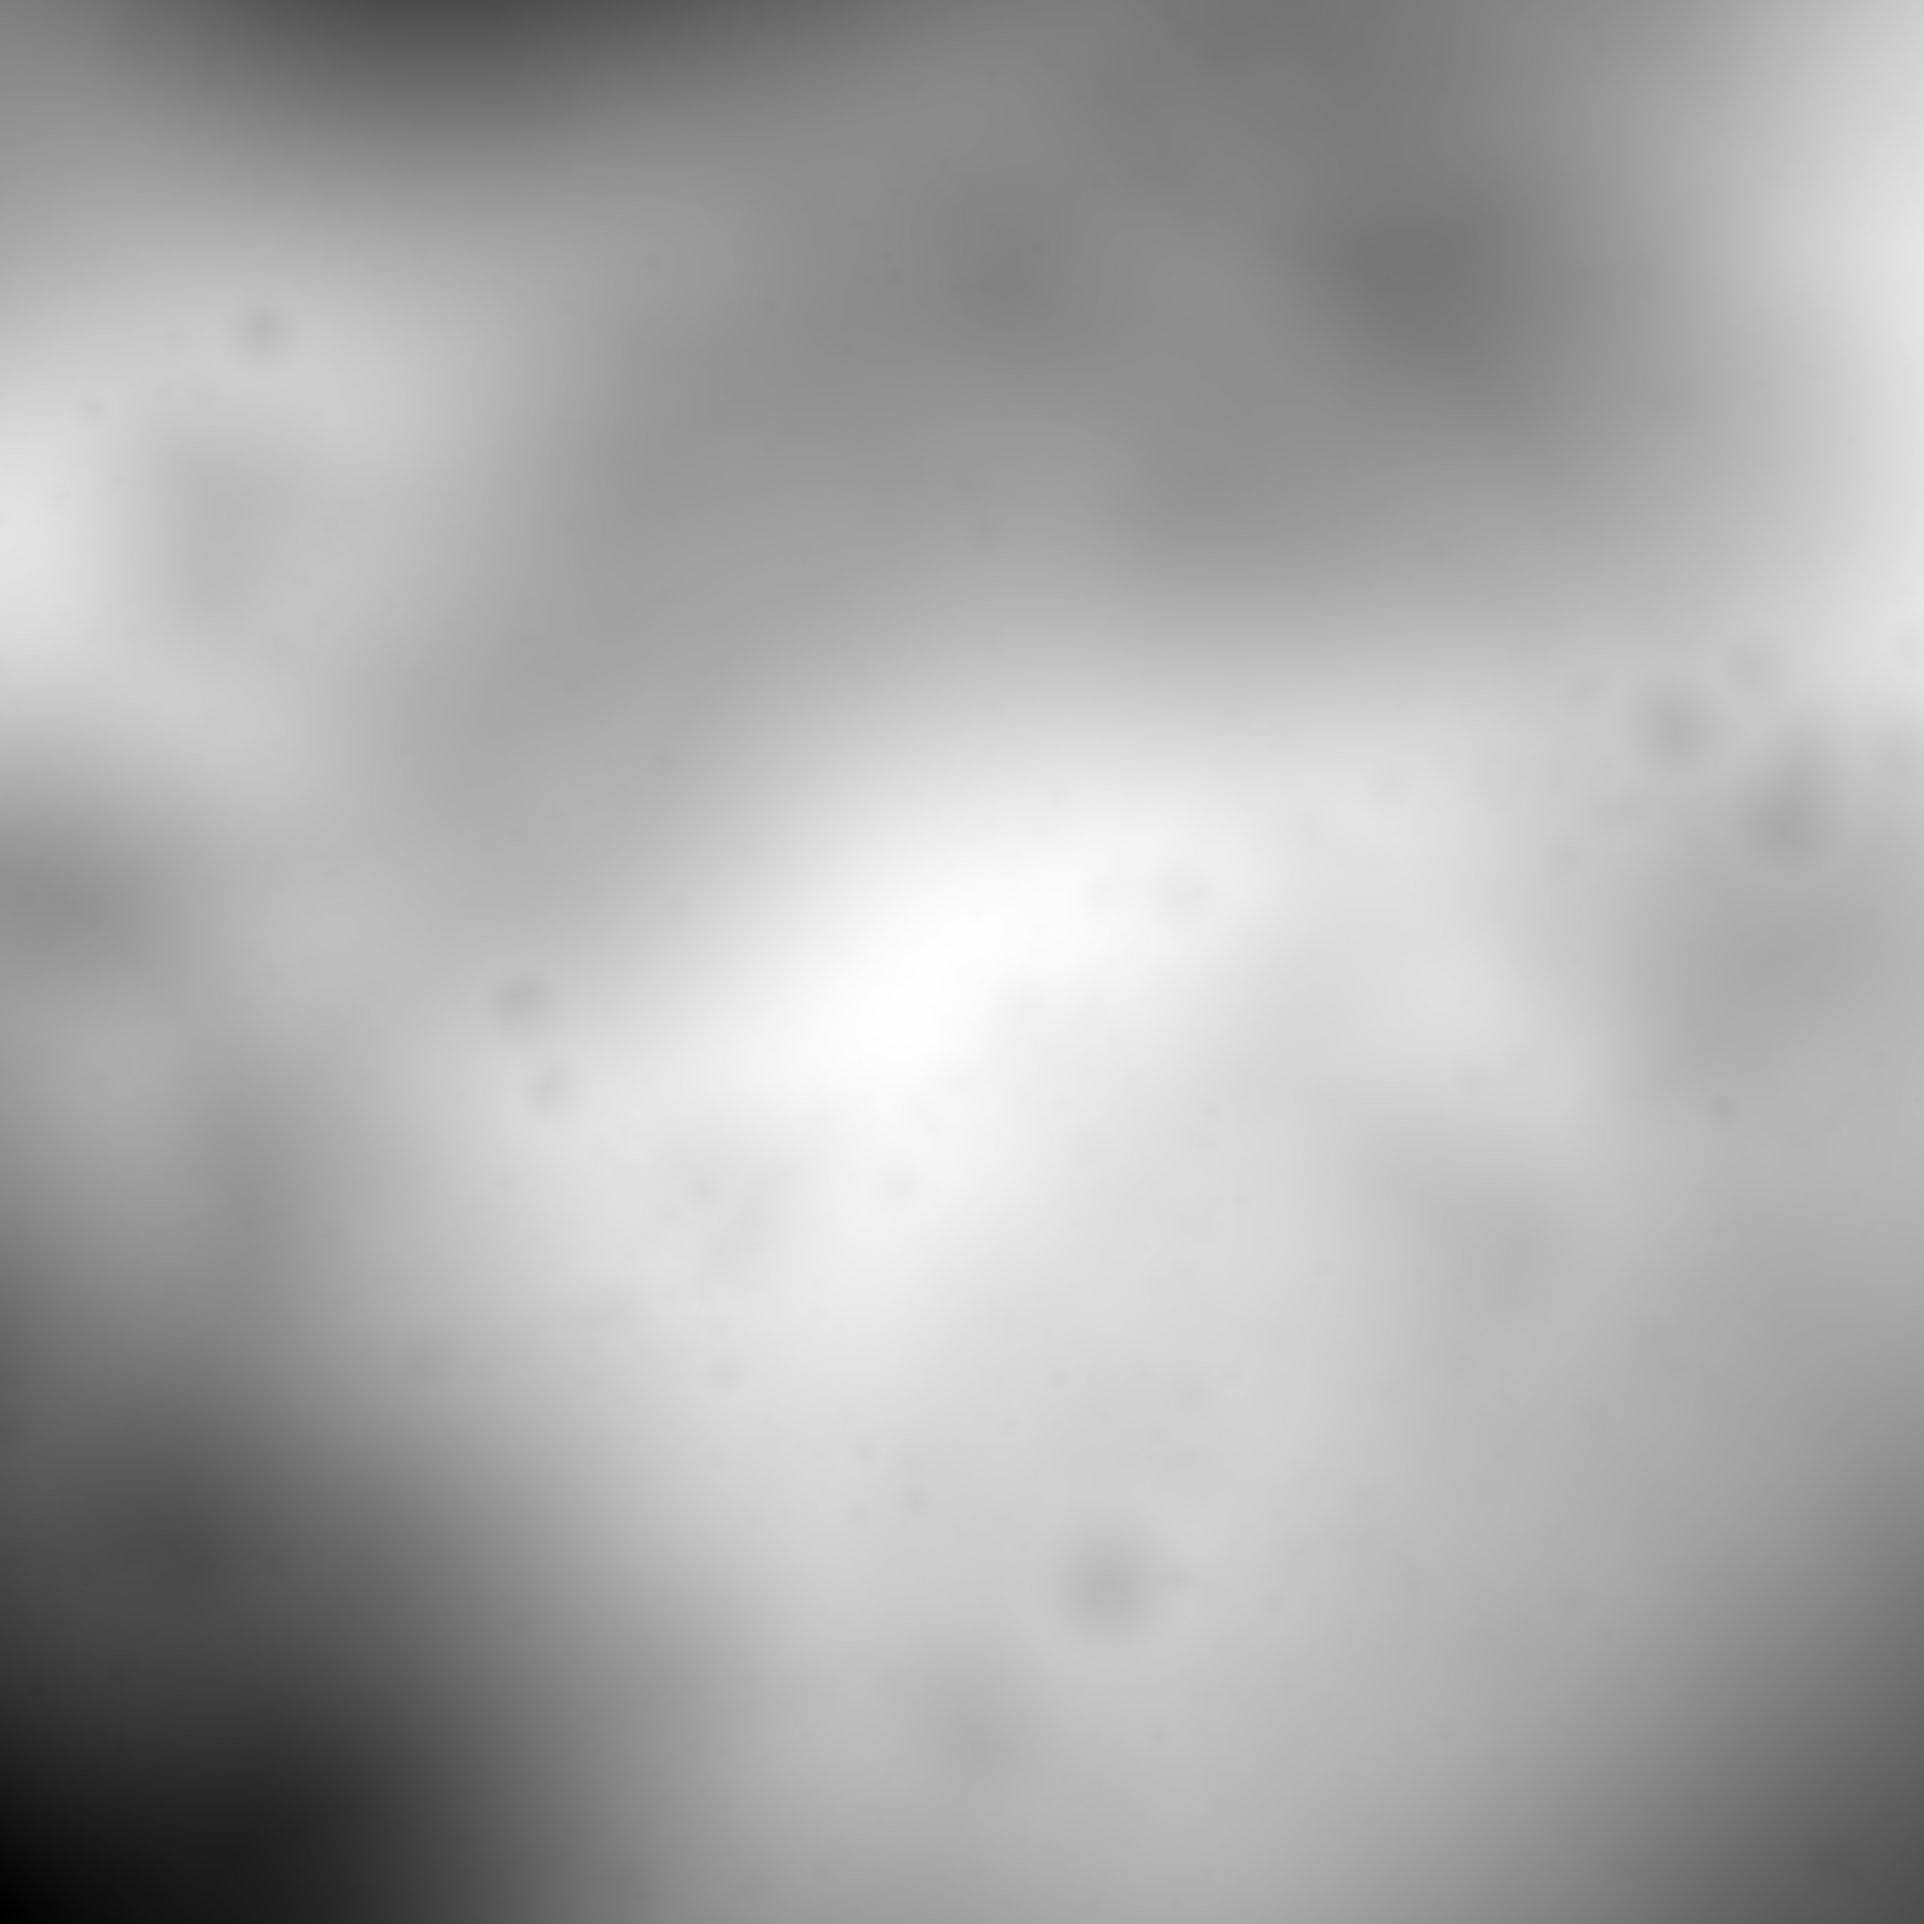
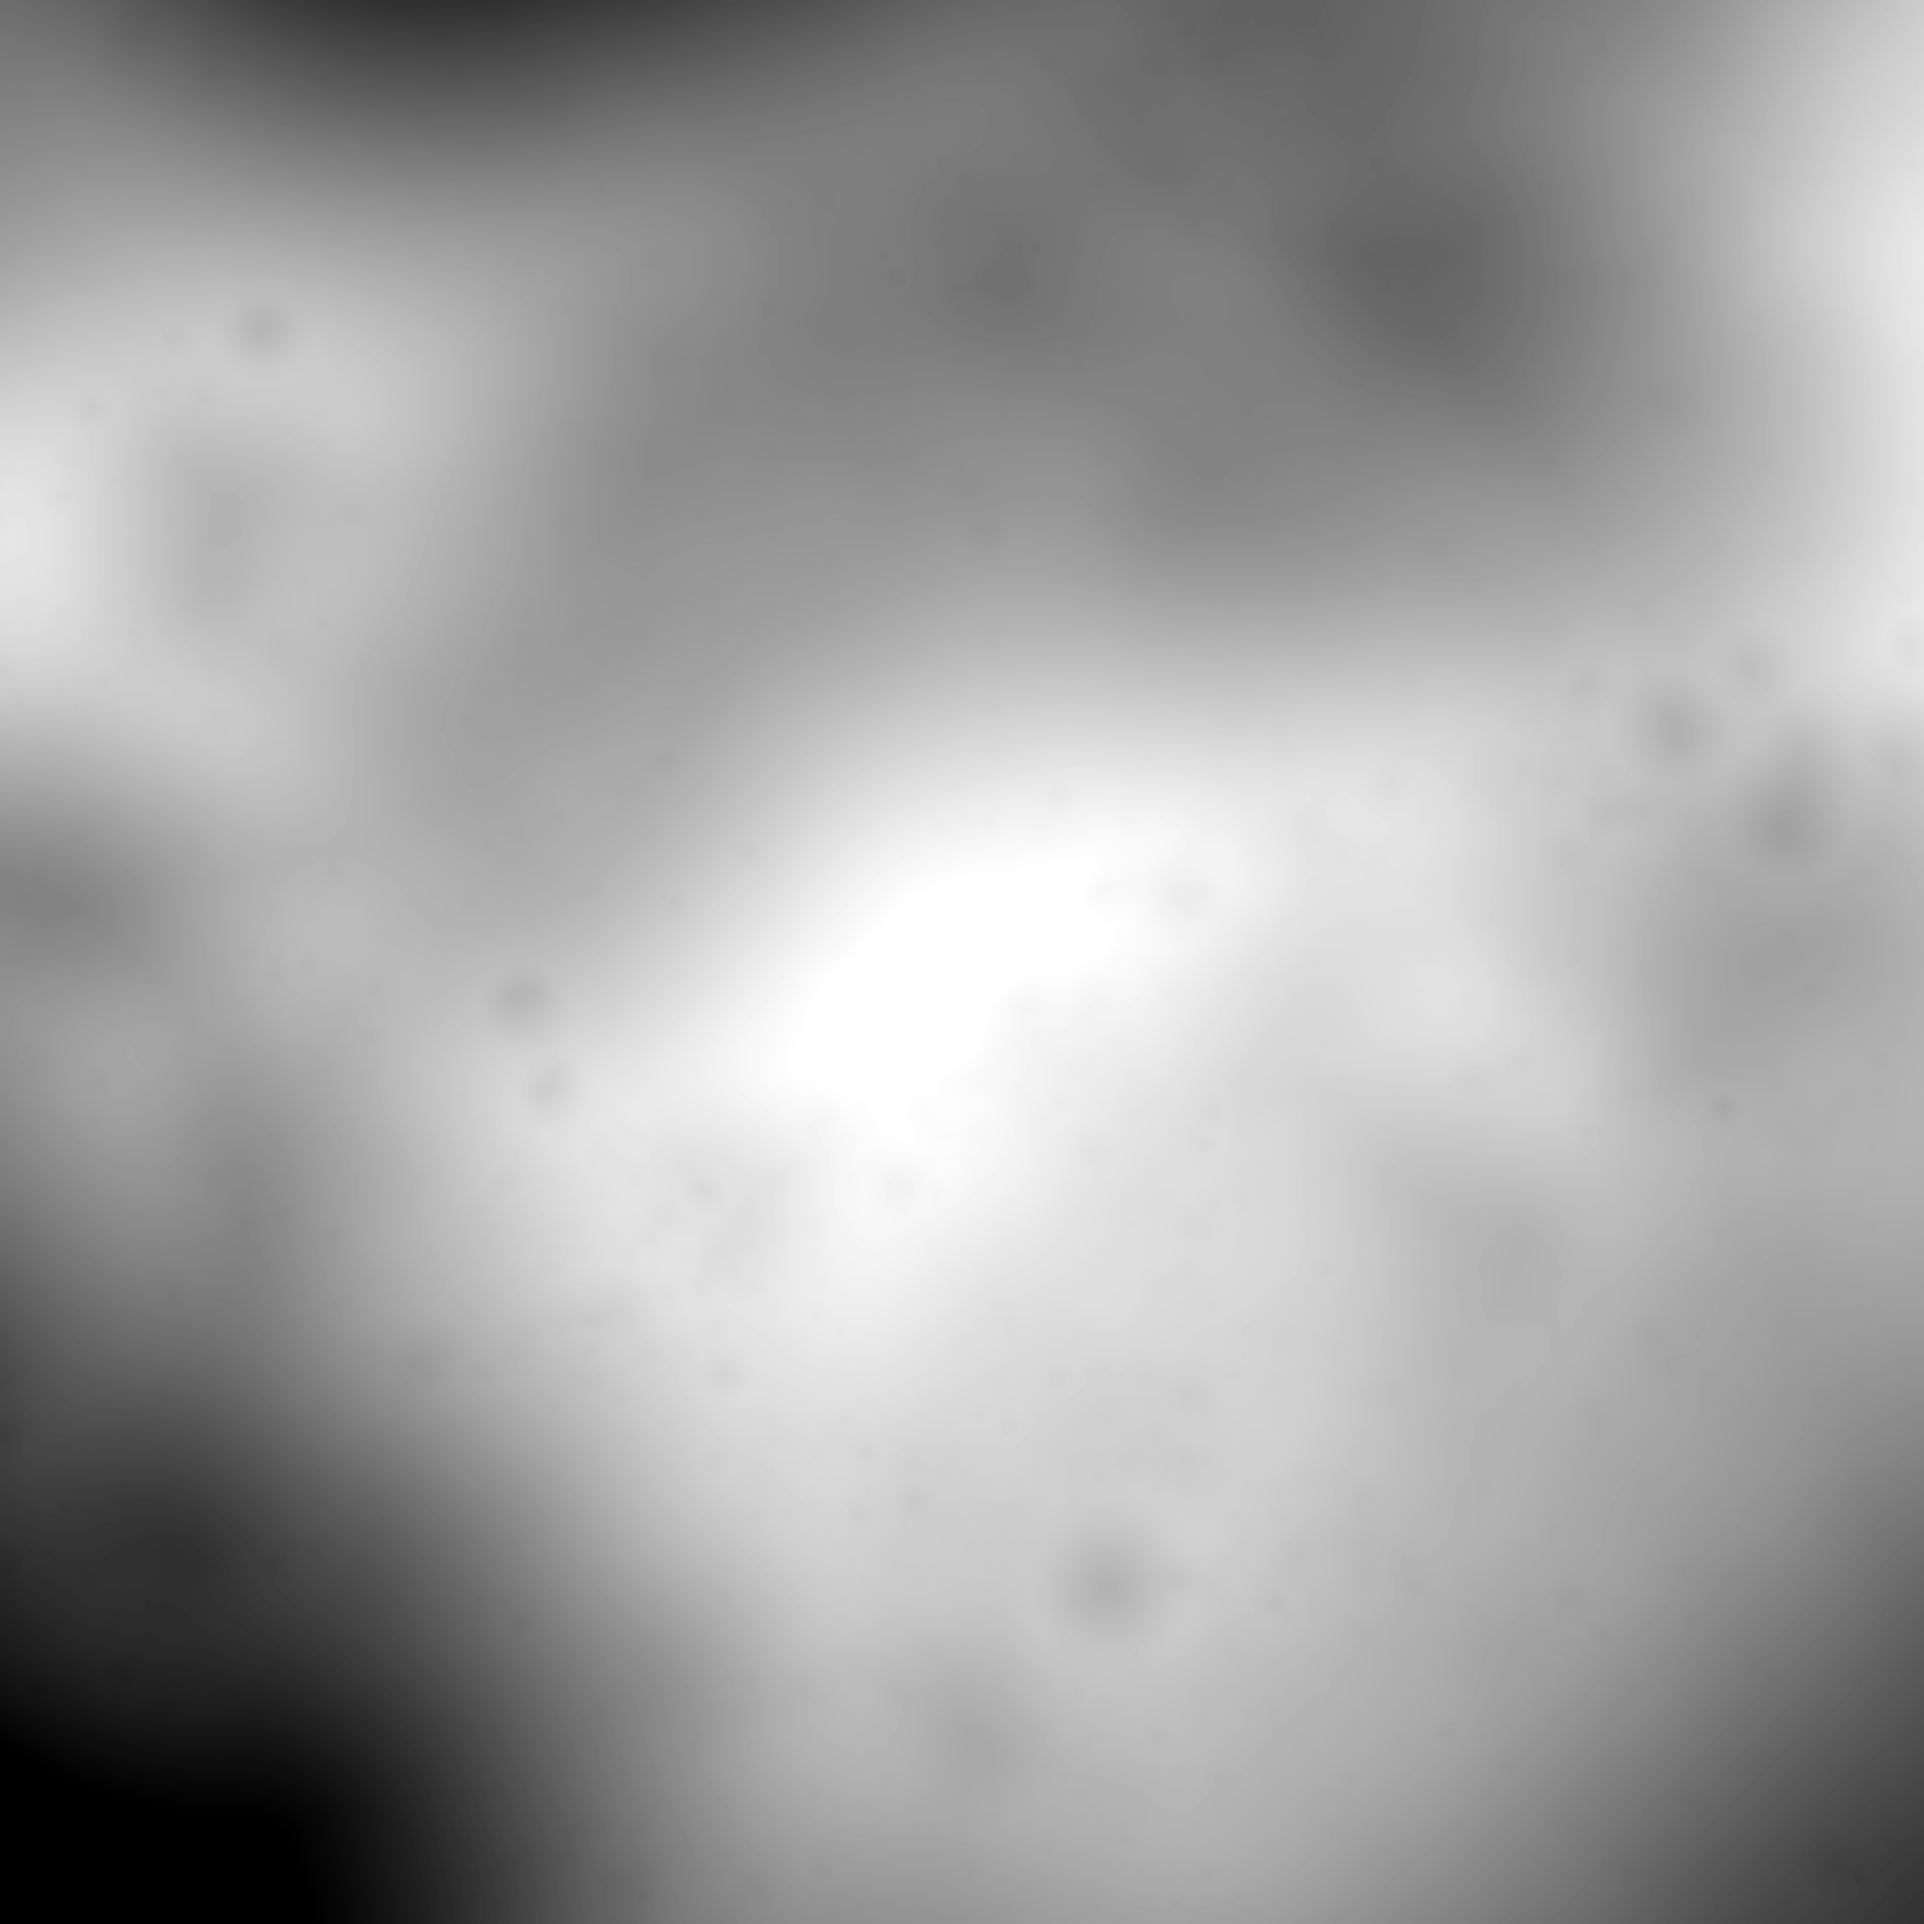
Add color maps, min and max, etc. Remove old maps

Changed region(s): [[0.0, 0.7188, 0.2812, 1.0], [0.125, 0.0, 0.3438, 0.0312], [0.9375, 0.9375, 1.0, 1.0]]

diff --git a/lola_converter.py b/lola_converter.py
@@ -1,24 +1,23 @@
+#!/usr/bin/env python3
 import rasterio
 import numpy as np
 from PIL import Image
 from matplotlib.colors import LightSource
+import matplotlib.pyplot as plt
 import argparse
 import os
 
+# Define the target directories for inputs and outputs
 INPUT_DIR = "dems"
 OUTPUT_DIR = "lola_conversions"
 
-def convert_lola_tif(input_tif, output_filename, mode='ldem', azimuth=315, altitude=45, vert_exag=1.0):
+def convert_lola_tif(input_tif, output_filename, mode='ldem', cmap='gray', azimuth=315, altitude=45, vert_exag=1.0, show_hist=False, user_min=None, user_max=None):
     """
     Converts 32-bit float NASA LOLA .tif files into usable .png maps.
-    Automatically routes outputs to the /lola_conversions directory.
+    Supports absolute min/max clipping to lock color scales to physical measurements.
     """
-    # Ensure the input/output directories exist
-    os.makedirs(INPUT_DIR, exist_ok=True)
     os.makedirs(OUTPUT_DIR, exist_ok=True)
     
-    # Strip any extra folder paths the user might have accidentally typed
-    # and lock the final output path into our dedicated directory
     safe_filename = os.path.basename(output_filename)
     final_output_path = os.path.join(OUTPUT_DIR, safe_filename)
 
@@ -27,7 +26,7 @@ def convert_lola_tif(input_tif, output_filename, mode='ldem', azimuth=315, altit
     with rasterio.open(input_tif) as src:
         data = src.read(1)
         nodata = src.nodata
-        dx, dy = src.res # Get pixel resolution for accurate light bouncing
+        dx, dy = src.res 
 
     # 1. Mask out "NoData" areas
     if nodata is not None:
@@ -36,55 +35,132 @@ def convert_lola_tif(input_tif, output_filename, mode='ldem', azimuth=315, altit
         mask = np.isnan(data)
         
     valid_data = np.ma.masked_array(data, mask)
+    raw_flat_data = valid_data.compressed()
+
+    # Extract the raw 1D float array for the pre-conversion histogram (ignoring empty space)
+    raw_flat_data = valid_data.compressed()
+
+    # ---> NEW: Count and print the number of unique values
+    unique_values = np.unique(raw_flat_data)
+    print(f"Total distinct values in raw data: {len(unique_values):,}")
 
     # 2. Process based on the selected mode
     if mode == 'ldem':
-        print("Normalizing LDEM elevation data to grayscale...")
-        min_val = valid_data.min()
-        max_val = valid_data.max()
-        normalized = ((valid_data - min_val) / (max_val - min_val) * 255)
-        img_array = normalized.filled(0).astype(np.uint8)
+        # Apply absolute bounds if provided, otherwise default to 1st/99th percentiles
+        calc_min = user_min if user_min is not None else np.percentile(raw_flat_data, 1)
+        calc_max = user_max if user_max is not None else np.percentile(raw_flat_data, 99)
+        
+        print(f"Normalizing LDEM elevation data (Colormap: {cmap})...")
+        print(f"Data Range Locked to: {calc_min:.2f} -> {calc_max:.2f}")
+        
+        clipped_data = np.clip(valid_data, calc_min, calc_max)
+        
+        # Normalize to 0.0 - 1.0 for the colormap
+        normalized = (clipped_data - calc_min) / (calc_max - calc_min)
+        
+        # Apply the colormap
+        colormap = plt.get_cmap(cmap)
+        rgba_data = colormap(normalized.filled(0))
+        rgba_data[mask] = [0, 0, 0, 1] 
+        
+        img_array = (rgba_data * 255).astype(np.uint8)
+        img_mode = 'RGBA'
 
     elif mode == 'slope':
-        print("Converting Slope data to visual gradient...")
-        capped_slope = np.clip(valid_data, 0, 30)
-        normalized = 255 - ((capped_slope / 30.0) * 255)
-        img_array = normalized.filled(0).astype(np.uint8)
+        # Allow overriding the 0-30 degree default slope bounds too!
+        calc_min = user_min if user_min is not None else 0.0
+        calc_max = user_max if user_max is not None else 30.0
+        
+        print(f"Converting Slope data to visual gradient (Colormap: {cmap})...")
+        print(f"Data Range Locked to: {calc_min:.2f} -> {calc_max:.2f} degrees")
+        
+        clipped_slope = np.clip(valid_data, calc_min, calc_max)
+        
+        # 1.0 is white (low slope), 0.0 is black (high slope)
+        normalized = 1.0 - ((clipped_slope - calc_min) / (calc_max - calc_min))
+        
+        colormap = plt.get_cmap(cmap)
+        rgba_data = colormap(normalized.filled(0))
+        rgba_data[mask] = [0, 0, 0, 1]
+        
+        img_array = (rgba_data * 255).astype(np.uint8)
+        img_mode = 'RGBA'
         
     elif mode == 'hillshade':
         print(f"Rendering Hillshade (Azimuth: {azimuth}°, Altitude: {altitude}°)...")
-        # Create a simulated sun
         ls = LightSource(azdeg=azimuth, altdeg=altitude)
-        
-        # Calculate shadows and highlights
         shaded = ls.hillshade(valid_data, vert_exag=vert_exag, dx=dx, dy=dy, fraction=1.0)
-        
-        # Convert the float output (0.0 to 1.0) to an 8-bit image (0 to 255)
         img_array = (shaded * 255).astype(np.uint8)
-        
-        # Handle the empty space mask
         img_array[mask] = 0
+        img_mode = 'L'
 
-    # 3. Save the final image
-    img = Image.fromarray(img_array, mode='L') 
+    # 3. Generate Histograms if requested
+    if show_hist:
+        print("Generating distribution histograms...")
+        fig, (ax1, ax2) = plt.subplots(1, 2, figsize=(14, 5))
+        
+        # Pre-conversion Plot
+        ax1.hist(raw_flat_data, bins=100, color='royalblue', alpha=0.8)
+        ax1.set_title(f"Pre-Conversion: Raw {mode.upper()} Data (32-bit Float)")
+        ax1.set_xlabel("True Value (Meters / Degrees)")
+        ax1.set_ylabel("Pixel Count")
+        ax1.grid(True, alpha=0.3)
+        
+        # Highlight the custom clipping range on the raw histogram
+        if mode in ['ldem', 'slope']:
+            ax1.axvline(calc_min, color='red', linestyle='dashed', linewidth=1.5, label='Clip Min')
+            ax1.axvline(calc_max, color='orange', linestyle='dashed', linewidth=1.5, label='Clip Max')
+            ax1.legend()
+        
+        # Post-conversion Plot
+        if mode in ['ldem', 'slope']:
+            final_flat_data = (normalized[~mask] * 255).astype(np.uint8)
+        else:
+            final_flat_data = img_array[~mask] 
+            
+        ax2.hist(final_flat_data, bins=50, color='seagreen', alpha=0.8)
+        ax2.set_title("Post-Conversion: Clamped Math Data (0-255 Range)")
+        ax2.set_xlabel("Data Bin")
+        ax2.set_ylabel("Pixel Count")
+        ax2.grid(True, alpha=0.3)
+        
+        plt.tight_layout()
+        
+        base_name = os.path.splitext(safe_filename)[0]
+        hist_path = os.path.join(OUTPUT_DIR, f"{base_name}_histogram.png")
+        plt.savefig(hist_path)
+        print(f"SUCCESS: Saved histogram to {hist_path}")
+        plt.close()
+
+    # 4. Save the final image
+    img = Image.fromarray(img_array, mode=img_mode) 
     img.save(final_output_path)
-    print(f"SUCCESS: Saved to {final_output_path}")
+    print(f"SUCCESS: Saved map to {final_output_path}")
 
 if __name__ == "__main__":
     parser = argparse.ArgumentParser(description="NASA LOLA .tif to .png Converter")
-    parser.add_argument("input", type=str, help="Path to the input .tif file")
+    parser.add_argument("input", type=str, help="Name of the input .tif file (must be in /dems)")
     parser.add_argument("output", type=str, help="Name of the output .png file (will be saved in /lola_conversions)")
     parser.add_argument("--mode", type=str, choices=['ldem', 'slope', 'hillshade'], default='ldem', 
                         help="Data type: 'ldem' (heightmap), 'slope' (cost map), 'hillshade' (visual map).")
     
-    # Lighting arguments (only used if --mode hillshade is selected)
-    parser.add_argument("-a", "--azimuth", type=float, default=315, help="Sun direction in degrees (default: 315 NW)")
-    parser.add_argument("-e", "--elevation", type=float, default=45, help="Sun altitude in degrees (default: 45)")
-    parser.add_argument("-z", "--zoom", type=float, default=2.0, help="Vertical exaggeration for deeper shadows (default: 2.0)")
+    parser.add_argument("-c", "--cmap", type=str, default='gray', help="Matplotlib colormap.")
+    
+    # Custom data ranges
+    parser.add_argument("--min", type=float, default=None, help="Absolute minimum data value to clip to.")
+    parser.add_argument("--max", type=float, default=None, help="Absolute maximum data value to clip to.")
+    
+    parser.add_argument("-a", "--azimuth", type=float, default=315)
+    parser.add_argument("-e", "--elevation", type=float, default=45)
+    parser.add_argument("-z", "--zoom", type=float, default=2.0)
+    parser.add_argument("--histogram", action="store_true")
     
     args = parser.parse_args()
     
-    if not os.path.exists(args.input):
-        print(f"ERR: File not found -> {args.input}")
+    safe_input_name = os.path.basename(args.input)
+    input_path = os.path.join(INPUT_DIR, safe_input_name)
+    
+    if not os.path.exists(input_path):
+        print(f"ERR: Input file not found -> {input_path}")
     else:
-        convert_lola_tif(args.input, args.output, args.mode, args.azimuth, args.elevation, args.zoom)
+        convert_lola_tif(input_path, args.output, args.mode, args.cmap, args.azimuth, args.elevation, args.zoom, args.histogram, args.min, args.max)
